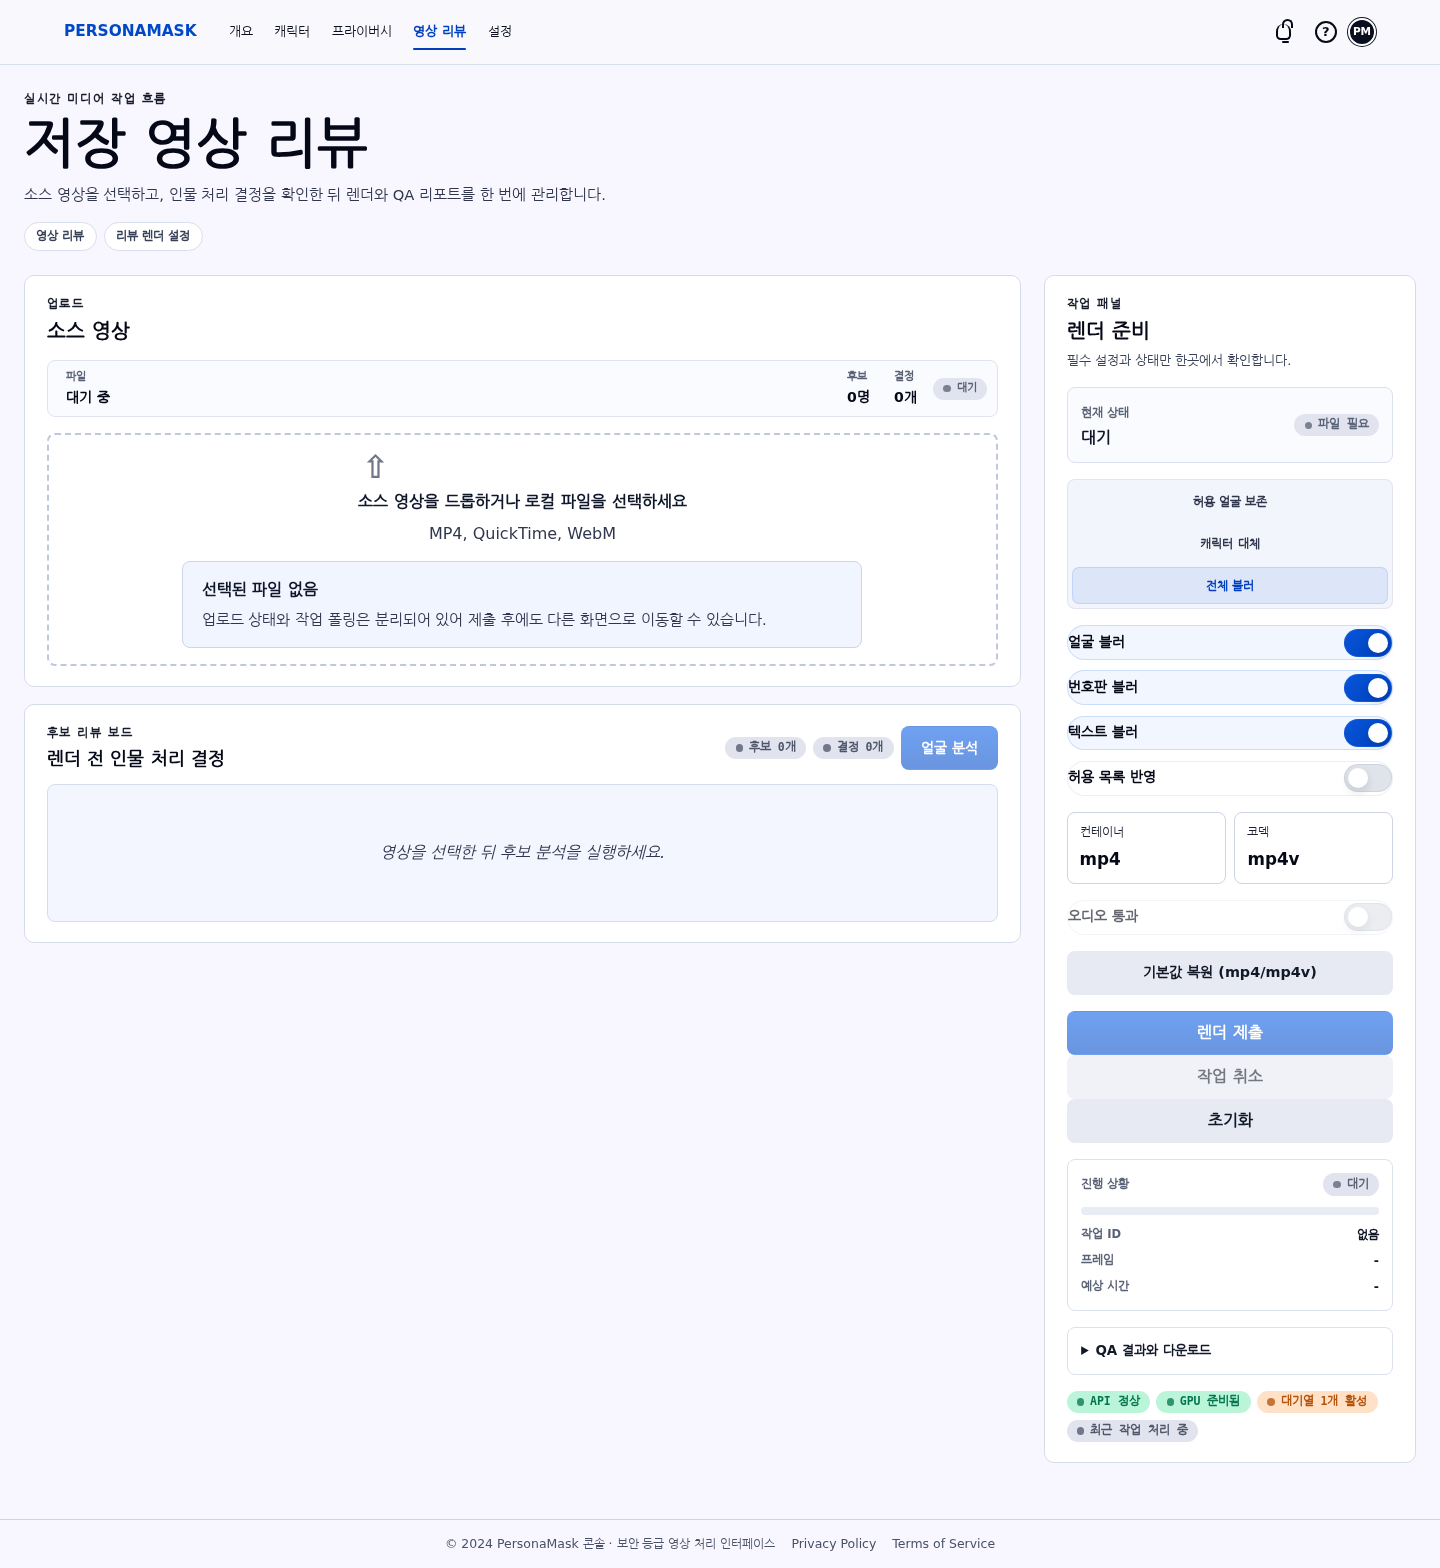
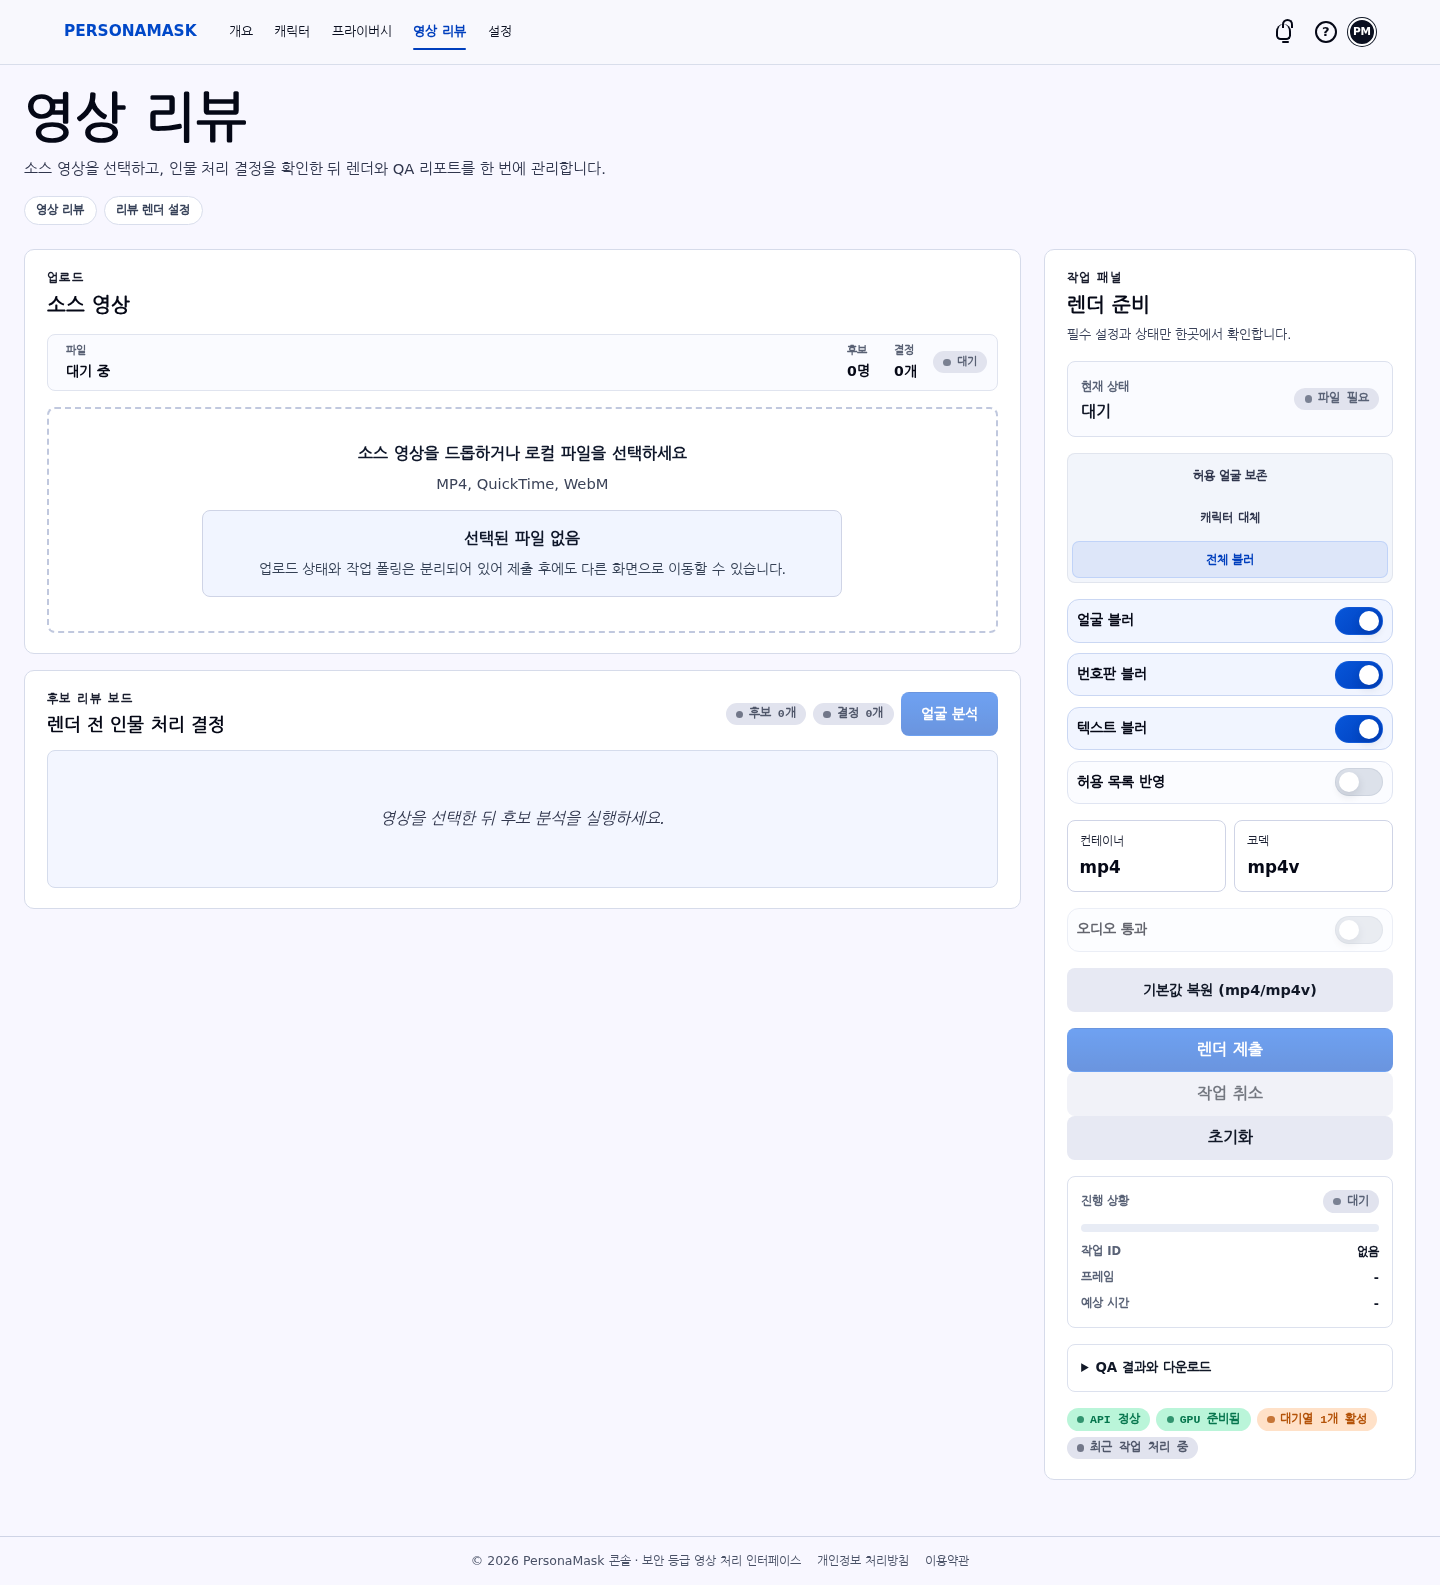
Tighten video review UI wording
The review screen still carried stale wording, a 2024 footer, and an outdated README screenshot. This updates the visible copy, centers the upload empty state, removes the ambiguous upload arrow, and refreshes the README preview.

Constraint: Keep the README preview aligned with the current video review screen

Confidence: high

Scope-risk: narrow

Tested: npm --prefix web run typecheck; npm --prefix web run lint; npm --prefix web run build; git diff --check; Playwright desktop/mobile screenshot check

Not-tested: Backend tests not rerun because this is frontend copy/layout and docs asset only

diff --git a/web/src/app/globals.css b/web/src/app/globals.css
@@ -1625,33 +1625,6 @@ body::before {
   text-align: center;
 }
 
-.dropzone > .cluster-between {
-  display: grid;
-  justify-items: center;
-  justify-content: center;
-  gap: 0.65rem;
-}
-
-.dropzone > .cluster-between > .status-badge {
-  display: none;
-}
-
-.dropzone__icon {
-  width: 34px;
-  height: 34px;
-  display: grid;
-  place-items: center;
-  color: #70778d;
-  font-size: 0;
-}
-
-.dropzone__icon::before {
-  content: "⇧";
-  font-size: 2rem;
-  font-weight: 800;
-  line-height: 1;
-}
-
 .dropzone__file {
   width: min(100%, 500px);
   min-height: 128px;
@@ -2240,15 +2213,61 @@ body::before {
 
 .page-shell--video .dropzone {
   min-height: 226px;
-  padding: 1rem 1.2rem;
+  padding: 1.25rem 1.4rem;
   border-color: #c0c8de;
   background: #ffffff;
 }
 
+.page-shell--video .dropzone__body {
+  width: min(100%, 560px);
+  display: grid;
+  justify-items: center;
+  gap: 0.48rem;
+  margin-inline: auto;
+  text-align: center;
+}
+
+.page-shell--video .dropzone__body .status-badge {
+  display: none;
+}
+
+.page-shell--video .dropzone__title {
+  margin: 0;
+  color: #0f172a;
+  font-size: 1.02rem;
+  font-weight: 800;
+  line-height: 1.45;
+  word-break: keep-all;
+}
+
+.page-shell--video .dropzone__helper {
+  margin: 0;
+  color: #3b4358;
+  font-size: 0.92rem;
+  line-height: 1.55;
+  word-break: keep-all;
+}
+
 .page-shell--video .dropzone__file {
-  width: min(100%, 680px);
-  min-height: 72px;
+  width: min(100%, 640px);
+  min-height: 76px;
   background: #f1f5ff;
+  justify-items: center;
+  padding: 1rem 1.4rem;
+  text-align: center;
+}
+
+.page-shell--video .dropzone__file strong {
+  max-width: 100%;
+  color: #0f172a;
+  overflow-wrap: anywhere;
+}
+
+.page-shell--video .dropzone__file span {
+  color: #344054;
+  font-size: 0.9rem;
+  line-height: 1.55;
+  word-break: keep-all;
 }
 
 .page-shell--video .candidate-board {
@@ -2345,8 +2364,16 @@ body::before {
 
 .page-shell--video .review-control-panel .toggle-card,
 .page-shell--video .review-control-panel .toggle-card--checked {
-  min-height: 32px;
-  padding: 0.15rem 0;
+  min-height: 42px;
+  padding: 0.42rem 0.58rem;
+  border-radius: 12px;
+  border-color: #e0e5f2;
+  background: #fbfcff;
+}
+
+.page-shell--video .review-control-panel .toggle-card--checked {
+  border-color: #cad7f3;
+  background: #f1f5ff;
 }
 
 .page-shell--video .review-control-panel .summary-grid {

diff --git a/web/src/components/uploader/video-upload-dropzone.tsx b/web/src/components/uploader/video-upload-dropzone.tsx
@@ -74,27 +74,22 @@ export function VideoUploadDropzone({
           style={{ display: "none" }}
         />
 
-        <div className="cluster-between">
-          <div className="stack-xs">
-            <span className="dropzone__icon" aria-hidden="true">업로드</span>
-            <p style={{ margin: 0, color: "#0f172a", fontWeight: 800, fontSize: "1.02rem" }}>
-              소스 영상을 드롭하거나 로컬 파일을 선택하세요
-            </p>
-            <p className="field-note" style={{ margin: 0 }}>{helperText}</p>
-          </div>
+        <div className="dropzone__body">
+          <p className="dropzone__title">소스 영상을 드롭하거나 로컬 파일을 선택하세요</p>
+          <p className="dropzone__helper">{helperText}</p>
           <StatusBadge label={dragActive ? "지금 놓기" : "준비됨"} tone={dragActive ? "warning" : "success"} />
         </div>
 
-        <div className="dropzone__file">
+        <div className={["dropzone__file", file ? "dropzone__file--selected" : "dropzone__file--empty"].join(" ")}>
           {file ? (
             <>
-              <strong style={{ color: "#0f172a" }}>{file.name}</strong>
-              <span className="text-muted" style={{ fontSize: "0.92rem" }}>{formatFileSize(file.size)}</span>
+              <strong>{file.name}</strong>
+              <span>{formatFileSize(file.size)}</span>
             </>
           ) : (
             <>
-              <strong style={{ color: "#0f172a" }}>선택된 파일 없음</strong>
-              <span className="text-muted" style={{ fontSize: "0.92rem" }}>
+              <strong>선택된 파일 없음</strong>
+              <span>
                 업로드 상태와 작업 폴링은 분리되어 있어 제출 후에도 다른 화면으로 이동할 수 있습니다.
               </span>
             </>

diff --git a/web/src/components/common/app-shell.tsx b/web/src/components/common/app-shell.tsx
@@ -87,7 +87,6 @@ export function AppShell({
       <div className="page-shell__inner">
         <section className={introClassName}>
           <div className="page-intro__copy">
-            <p className="eyebrow">실시간 미디어 작업 흐름</p>
             <h1>{title}</h1>
             <p className="hero-card__description">{description}</p>
             {compactIntro ? (
@@ -129,9 +128,9 @@ export function AppShell({
       </div>
 
       <footer className="app-footer">
-        <span>© 2024 PersonaMask 콘솔 · 보안 등급 영상 처리 인터페이스</span>
-        <a href="/privacy">Privacy Policy</a>
-        <a href="/settings">Terms of Service</a>
+        <span>© 2026 PersonaMask 콘솔 · 보안 등급 영상 처리 인터페이스</span>
+        <a href="/privacy">개인정보 처리방침</a>
+        <a href="/settings">이용약관</a>
       </footer>
     </div>
   );

diff --git a/web/src/app/page.tsx b/web/src/app/page.tsx
@@ -25,7 +25,7 @@ const modeCards = [
   },
   {
     href: "/video",
-    title: "저장 영상 리뷰",
+    title: "영상 리뷰",
     summary: "영상을 업로드하고 후보 얼굴을 검토한 뒤 보존/캐릭터/블러 렌더 결과를 다운로드합니다.",
     status: "연결됨",
     highlights: ["후보 분석", "리뷰 렌더 모드", "결과 다운로드"],
@@ -106,7 +106,7 @@ export default function HomePage() {
         <div className="auto-grid">
           <PanelCard kicker="운영 메모" title="먼저 확인할 것" description="각 흐름에 들어가기 전 확인할 핵심 항목을 정리했습니다.">
             <ul className="notes-list">
-              <li>저장 영상 리뷰가 핵심 제품 흐름이며, 실시간 화면은 프리뷰와 보정 용도입니다.</li>
+              <li>영상 리뷰가 핵심 제품 흐름이며, 실시간 화면은 프리뷰와 보정 용도입니다.</li>
               <li>보존/캐릭터 모드는 허용 목록 정책을 기준으로 남길 얼굴과 대체할 얼굴을 판단합니다.</li>
               <li>후보 분석은 렌더 작업 전에 검토 가능한 얼굴 crop을 준비합니다.</li>
             </ul>

diff --git a/web/src/features/video/video-page-screen.tsx b/web/src/features/video/video-page-screen.tsx
@@ -61,7 +61,7 @@ export function VideoPageScreen() {
   return (
     <AppShell
       currentRoute="video"
-      title="저장 영상 리뷰"
+      title="영상 리뷰"
       description="소스 영상을 선택하고, 인물 처리 결정을 확인한 뒤 렌더와 QA 리포트를 한 번에 관리합니다."
       diagnosticsItems={diagnosticsItems}
       activePreset="리뷰 렌더 설정"